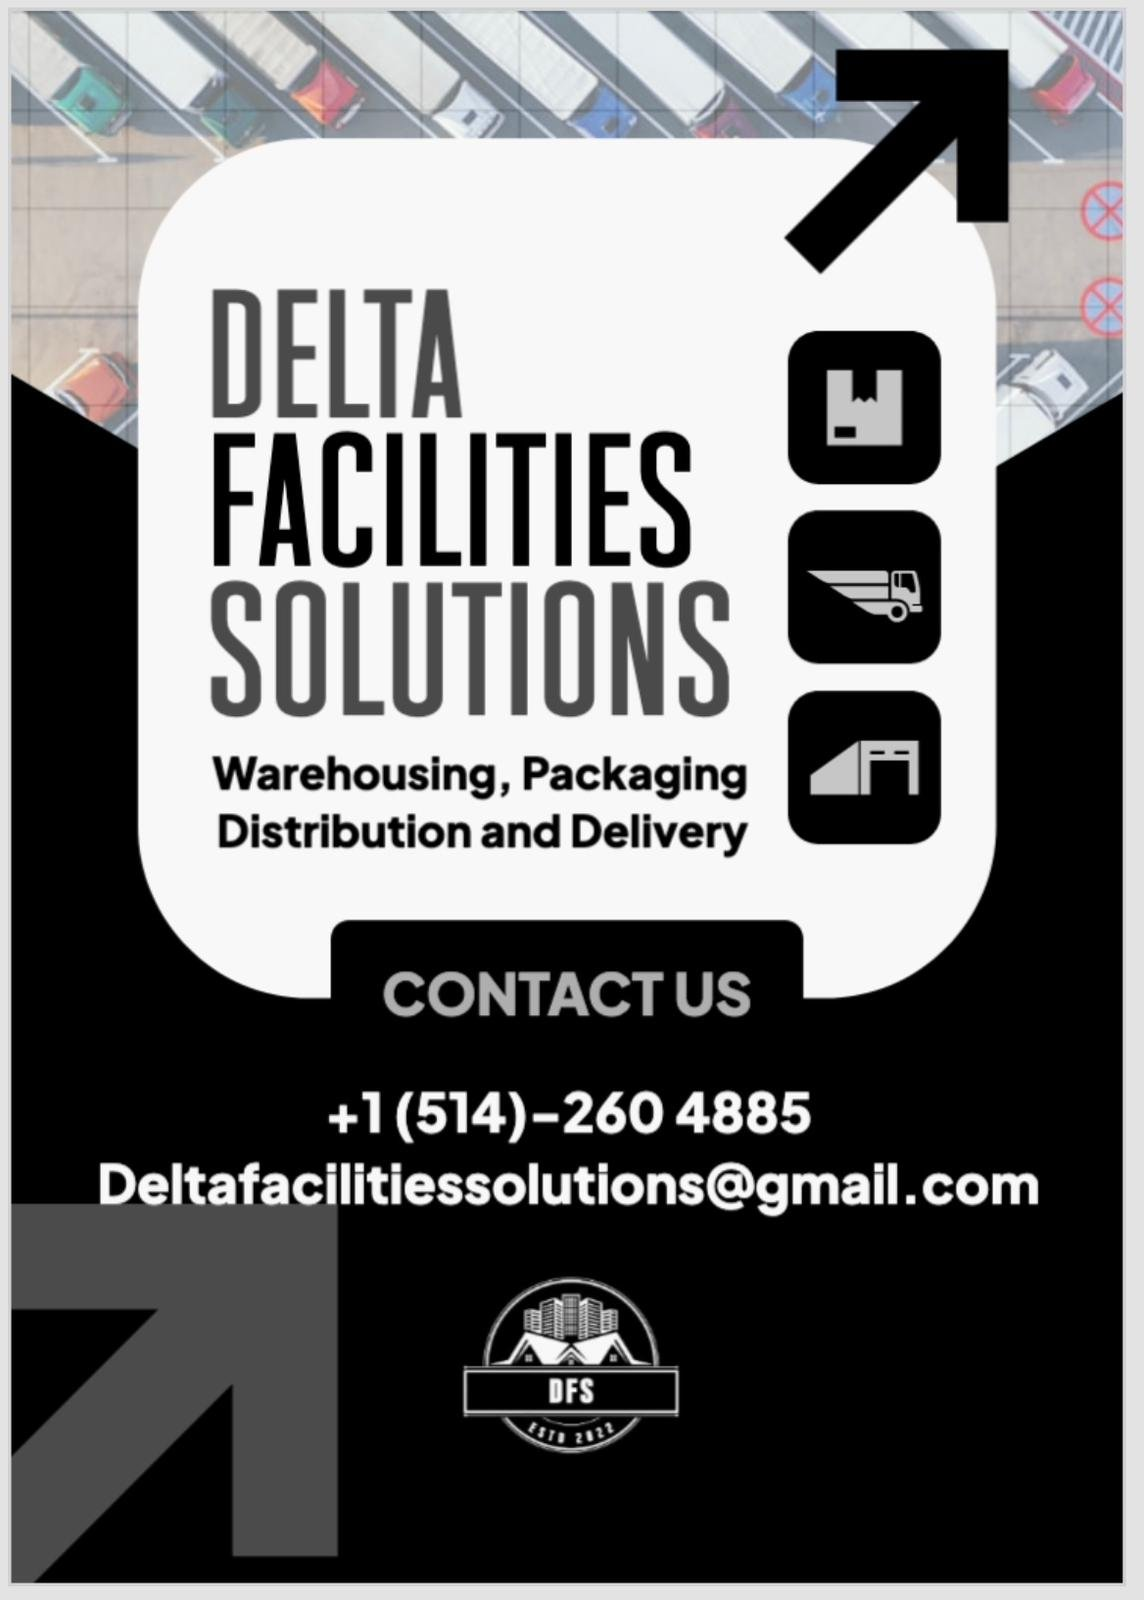
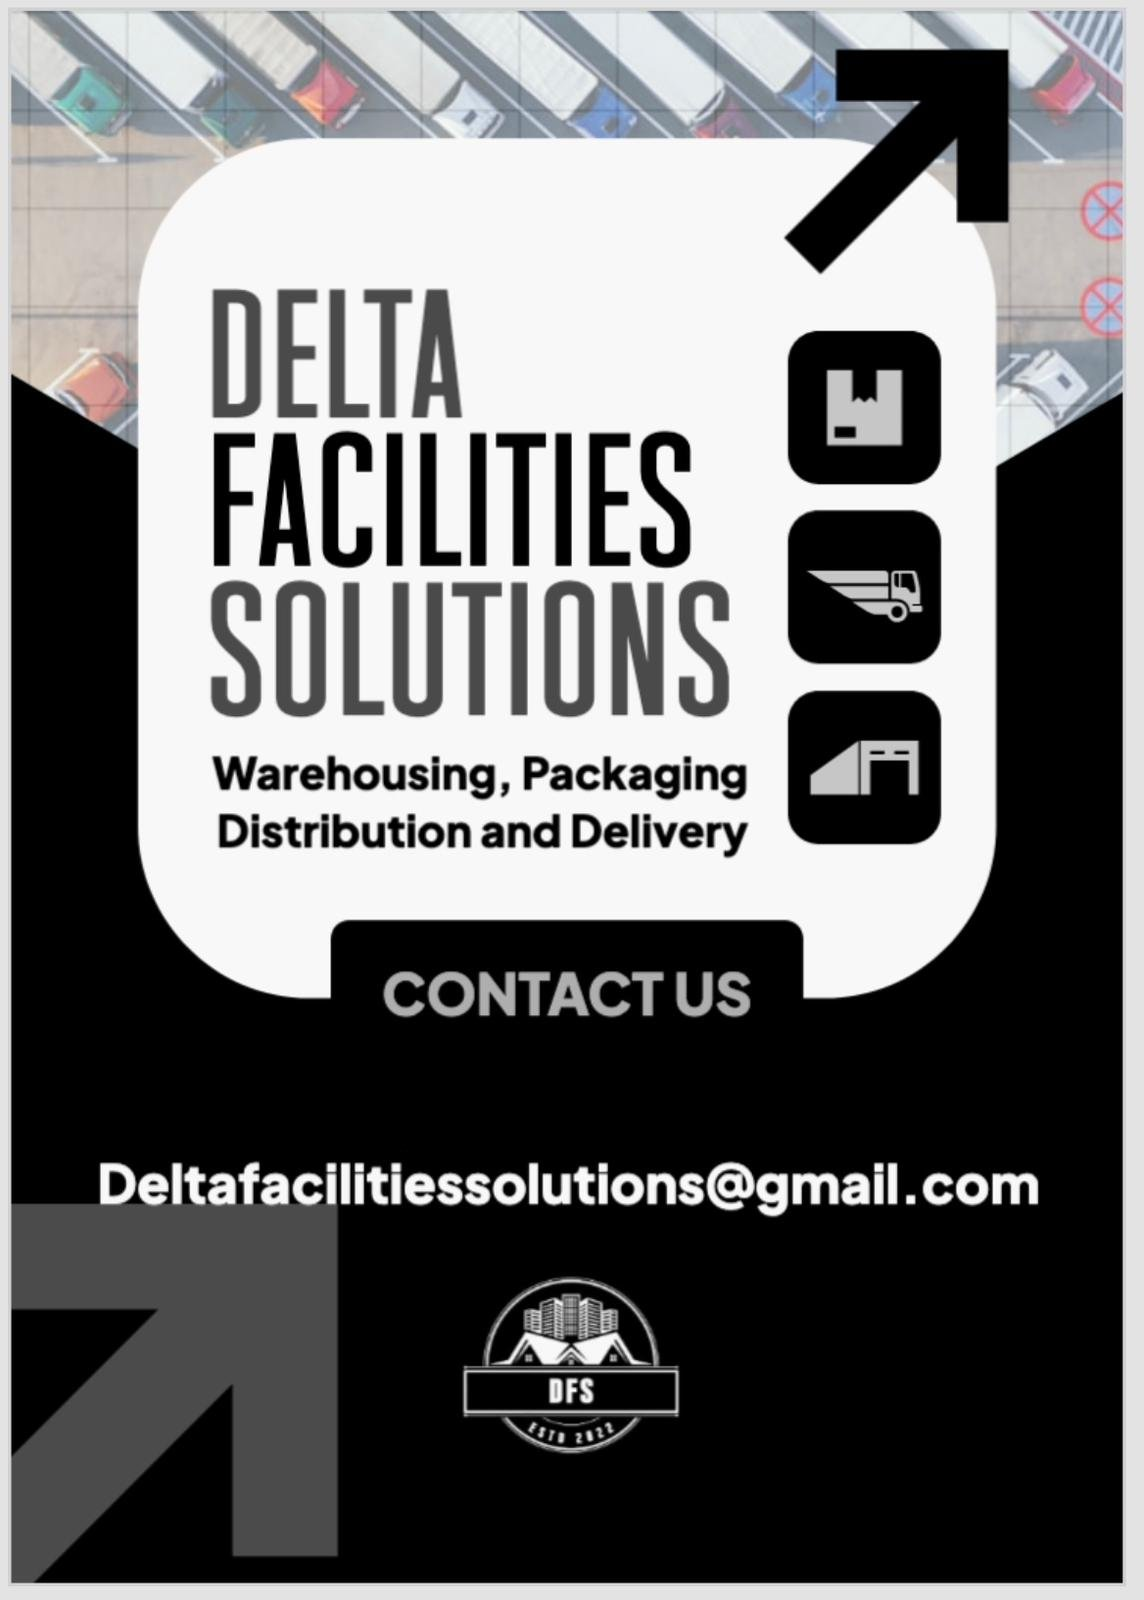
Remove phone number and YHU/airport mentions
Claude-Session: https://claude.ai/code/session_01Xpe8oU2XdLEHeh8RMwzrj1

Changed region(s): [[0.2753, 0.6562, 0.7037, 0.7188]]

diff --git a/src/i18n/site.ts b/src/i18n/site.ts
@@ -5,10 +5,10 @@ export const business = {
   name: 'Delta Facilities Solutions',
   short: 'DFS',
   email: 'deltafacilitiessolutions@gmail.com',
-  phone: '+1 (514) 260-4885',
-  phoneHref: '+15142604885',
+  phone: '',
+  phoneHref: '',
   founded: 2022,
-  area: 'Laval, Montréal and Saint-Hubert (YHU)',
+  area: 'Laval and Montréal',
 };
 
 // Contact forms are delivered free by FormSubmit (formsubmit.co) to the email above.
@@ -30,7 +30,7 @@ export const t = {
     meta: {
       title: 'Delta Facilities Solutions | Warehouse, packaging & distribution crews in Laval and Montreal',
       description:
-        'DFS runs warehousing, packaging and distribution work for businesses in Laval and Montreal, plus airside support at Montréal/Saint-Hubert Airport (YHU). Our crews are hired, trained and supervised by us.',
+        'DFS runs warehousing, packaging and distribution work for businesses in Laval and Montreal, plus local delivery. Our crews are hired, trained and supervised by us.',
     },
     nav: { services: 'Services', how: 'How it works', careers: 'Careers', about: 'About', contact: 'Contact', cta: 'Book a consultation', switch: 'FR', switchLabel: 'Français' },
     audience: { business: 'For businesses', seekers: 'For job seekers' },
@@ -39,12 +39,12 @@ export const t = {
       eyebrow: 'Laval & Montreal operations partner',
       title: 'Busy season? Hand the work to a DFS crew.',
       lead:
-        'We run warehousing, packaging and distribution work for businesses around Laval and Montreal, and airside at Montréal/Saint-Hubert Airport. We hire, train and supervise our own crews, so your team stays focused on its permanent roles.',
+        'We run warehousing, packaging and distribution work for businesses around Laval and Montreal. We hire, train and supervise our own crews, so your team stays focused on its permanent roles.',
       primary: 'Book a consultation',
       secondary: 'Find work with DFS',
-      seekersTitle: 'Steady warehouse and airside work, with training from day one.',
+      seekersTitle: 'Steady warehouse work, with training from day one.',
       seekersLead:
-        'DFS hires people for warehouse, packaging, distribution and airport jobs in Laval, Montreal and Saint-Hubert. We train you, supervise you on site and pay you on time.',
+        'DFS hires people for warehouse, packaging, distribution and delivery jobs in Laval and Montreal. We train you, supervise you on site and pay you on time.',
       seekersPrimary: 'Apply now',
       seekersSecondary: 'Questions? Contact us',
     },
@@ -62,7 +62,6 @@ export const t = {
         { icon: 'package', title: 'Packaging & co-packing', body: 'Kitting, labelling, repacking and finishing lines, with quality checks built into the shift.' },
         { icon: 'truck', title: 'Distribution & fulfillment', body: 'Order preparation, shipping and returns handling for retail, e-commerce and wholesale.' },
         { icon: 'delivery', title: 'Delivery', body: 'Local deliveries across Laval and Montreal, from your dock to your customer’s door.' },
-        { icon: 'plane', title: 'Airside support at YHU', body: 'Trained crews working airside at Montréal/Saint-Hubert Airport for cargo and ground handling tasks.' },
         { icon: 'calendar', title: 'Seasonal peak coverage', body: 'Holiday rushes, launches and inventory season covered without a recruiting campaign on your side.' },
       ],
     },
@@ -78,7 +77,7 @@ export const t = {
     seekers: {
       eyebrow: 'For job seekers',
       title: 'Looking for work in Laval or Montreal?',
-      body: 'We hire for warehouse, packaging, distribution and airside roles. No experience? We train you. Tell us about yourself and when you can work.',
+      body: 'We hire for warehouse, packaging, distribution and delivery roles. No experience? We train you. Tell us about yourself and when you can work.',
       points: ['Training before you start', 'Day, evening and weekend shifts', 'A DFS supervisor on site with you'],
       cta: 'Apply now',
     },
@@ -88,18 +87,18 @@ export const t = {
       body1:
         'Delta Facilities Solutions was founded by Jatin Chehal to give businesses in the Montreal area a simpler way to handle busy seasons. Instead of recruiting for every peak, HR and operations teams hand the work to us.',
       body2:
-        'We are based in the Montreal area and work across Laval, Montreal and the South Shore, including airside at Montréal/Saint-Hubert Airport (YHU).',
+        'We are based in the Montreal area and work across Laval, Montreal and the South Shore.',
     },
     faq: {
       title: 'Frequently asked questions',
       items: [
         { q: 'How is DFS different from a staffing agency?', a: 'A staffing agency sends you people to manage. DFS takes on a scope of work: we hire, train and supervise the crew ourselves, and you deal with one DFS contact instead of every worker.' },
-        { q: 'Which areas do you cover?', a: 'Laval, Montreal and the surrounding area, including the South Shore and Montréal/Saint-Hubert Airport (YHU).' },
+        { q: 'Which areas do you cover?', a: 'Laval, Montreal and the surrounding area, including the South Shore.' },
         { q: 'How quickly can a crew start?', a: 'It depends on the size of the crew and the training your site needs. Tell us your dates on a call and we will give you a realistic start date.' },
         { q: 'Do you work in French and English?', a: 'Yes. Our supervisors and crews work in French and English.' },
       ],
     },
-    ctaBand: { title: 'Planning for your next peak?', body: 'Call us or book a 15-minute consultation. We’ll tell you how a DFS crew could cover it.', cta: 'Book a consultation', call: 'Call' },
+    ctaBand: { title: 'Planning for your next peak?', body: 'Book a 15-minute consultation and we’ll tell you how a DFS crew could cover it.', cta: 'Book a consultation' },
     contact: {
       title: 'Book a consultation',
       lead: 'Tell us about the work you need covered. We reply within one business day.',
@@ -109,9 +108,9 @@ export const t = {
     },
     careers: {
       title: 'Work with DFS',
-      lead: 'Warehouse, packaging, distribution and airside jobs in Laval, Montreal and Saint-Hubert. Apply in two minutes.',
+      lead: 'Warehouse, packaging, distribution and delivery jobs in Laval and Montreal. Apply in two minutes.',
       name: 'Full name', email: 'Email', phone: 'Phone', city: 'City you live in',
-      role: 'Type of work', roles: ['Warehouse / material handling', 'Packaging', 'Distribution / shipping', 'Airside (YHU)', 'Any'],
+      role: 'Type of work', roles: ['Warehouse / material handling', 'Packaging', 'Distribution / shipping', 'Delivery', 'Any'],
       availability: 'When can you work?', avail: ['Days', 'Evenings', 'Nights', 'Weekends'],
       experience: 'Tell us about your experience (optional)', send: 'Send application',
     },
@@ -123,7 +122,7 @@ export const t = {
     meta: {
       title: 'Delta Facilities Solutions | Équipes d’entreposage, d’emballage et de distribution à Laval et Montréal',
       description:
-        'DFS prend en charge l’entreposage, l’emballage et la distribution pour les entreprises de Laval et Montréal, ainsi que du soutien côté piste à l’aéroport de Montréal/Saint-Hubert (YHU). Nos équipes sont recrutées, formées et supervisées par nous.',
+        'DFS prend en charge l’entreposage, l’emballage et la distribution pour les entreprises de Laval et Montréal, ainsi que la livraison locale. Nos équipes sont recrutées, formées et supervisées par nous.',
     },
     nav: { services: 'Services', how: 'Fonctionnement', careers: 'Carrières', about: 'À propos', contact: 'Contact', cta: 'Planifier un appel', switch: 'EN', switchLabel: 'English' },
     audience: { business: 'Pour les entreprises', seekers: 'Pour les chercheurs d’emploi' },
@@ -132,12 +131,12 @@ export const t = {
       eyebrow: 'Partenaire des opérations à Laval et Montréal',
       title: 'Période de pointe? Confiez le travail à une équipe DFS.',
       lead:
-        'Nous prenons en charge l’entreposage, l’emballage et la distribution pour les entreprises de Laval et Montréal, ainsi que du travail côté piste à l’aéroport de Montréal/Saint-Hubert. Nous recrutons, formons et supervisons nos propres équipes, pour que vos employés restent concentrés sur leurs postes permanents.',
+        'Nous prenons en charge l’entreposage, l’emballage et la distribution pour les entreprises de Laval et Montréal. Nous recrutons, formons et supervisons nos propres équipes, pour que vos employés restent concentrés sur leurs postes permanents.',
       primary: 'Planifier un appel',
       secondary: 'Travailler chez DFS',
-      seekersTitle: 'Du travail stable en entrepôt et à l’aéroport, avec formation dès le premier jour.',
+      seekersTitle: 'Du travail stable en entrepôt, avec formation dès le premier jour.',
       seekersLead:
-        'DFS embauche pour des postes en entrepôt, emballage, distribution et à l’aéroport à Laval, Montréal et Saint-Hubert. Nous vous formons, vous encadrons sur place et vous payons à temps.',
+        'DFS embauche pour des postes en entrepôt, emballage, distribution et livraison à Laval et Montréal. Nous vous formons, vous encadrons sur place et vous payons à temps.',
       seekersPrimary: 'Postuler',
       seekersSecondary: 'Des questions? Écrivez-nous',
     },
@@ -155,7 +154,6 @@ export const t = {
         { icon: 'package', title: 'Emballage et co-emballage', body: 'Assemblage de trousses, étiquetage, remballage et lignes de finition, avec contrôle de la qualité intégré au quart.' },
         { icon: 'truck', title: 'Distribution et exécution des commandes', body: 'Préparation des commandes, expédition et gestion des retours pour le commerce de détail, en ligne et de gros.' },
         { icon: 'delivery', title: 'Livraison', body: 'Livraisons locales à Laval et Montréal, de votre quai jusqu’à la porte de votre client.' },
-        { icon: 'plane', title: 'Soutien côté piste à YHU', body: 'Des équipes formées qui travaillent côté piste à l’aéroport de Montréal/Saint-Hubert pour le fret et l’assistance au sol.' },
         { icon: 'calendar', title: 'Couverture des pointes saisonnières', body: 'Fêtes, lancements et inventaires couverts sans campagne de recrutement de votre côté.' },
       ],
     },
@@ -171,7 +169,7 @@ export const t = {
     seekers: {
       eyebrow: 'Pour les chercheurs d’emploi',
       title: 'Vous cherchez du travail à Laval ou Montréal?',
-      body: 'Nous embauchons pour des postes en entrepôt, emballage, distribution et côté piste. Pas d’expérience? Nous vous formons. Parlez-nous de vous et de vos disponibilités.',
+      body: 'Nous embauchons pour des postes en entrepôt, emballage, distribution et livraison. Pas d’expérience? Nous vous formons. Parlez-nous de vous et de vos disponibilités.',
       points: ['Formation avant de commencer', 'Quarts de jour, de soir et de fin de semaine', 'Un superviseur DFS sur place avec vous'],
       cta: 'Postuler',
     },
@@ -181,18 +179,18 @@ export const t = {
       body1:
         'Delta Facilities Solutions a été fondée par Jatin Chehal pour offrir aux entreprises de la région de Montréal une façon plus simple de gérer les périodes de pointe. Au lieu de recruter à chaque pointe, les équipes RH et des opérations nous confient le travail.',
       body2:
-        'Nous sommes établis dans la région de Montréal et travaillons à Laval, à Montréal et sur la Rive-Sud, y compris côté piste à l’aéroport de Montréal/Saint-Hubert (YHU).',
+        'Nous sommes établis dans la région de Montréal et travaillons à Laval, à Montréal et sur la Rive-Sud.',
     },
     faq: {
       title: 'Questions fréquentes',
       items: [
         { q: 'En quoi DFS diffère-t-elle d’une agence de placement?', a: 'Une agence vous envoie des personnes à gérer. DFS prend en charge un mandat : nous recrutons, formons et supervisons l’équipe nous-mêmes, et vous traitez avec un seul contact DFS.' },
-        { q: 'Quels secteurs desservez-vous?', a: 'Laval, Montréal et les environs, y compris la Rive-Sud et l’aéroport de Montréal/Saint-Hubert (YHU).' },
+        { q: 'Quels secteurs desservez-vous?', a: 'Laval, Montréal et les environs, y compris la Rive-Sud.' },
         { q: 'En combien de temps une équipe peut-elle commencer?', a: 'Cela dépend de la taille de l’équipe et de la formation requise. Donnez-nous vos dates lors d’un appel et nous vous proposerons une date réaliste.' },
         { q: 'Travaillez-vous en français et en anglais?', a: 'Oui. Nos superviseurs et nos équipes travaillent en français et en anglais.' },
       ],
     },
-    ctaBand: { title: 'Vous planifiez votre prochaine pointe?', body: 'Appelez-nous ou planifiez un appel de 15 minutes. Nous vous dirons comment une équipe DFS peut la couvrir.', cta: 'Planifier un appel', call: 'Appeler' },
+    ctaBand: { title: 'Vous planifiez votre prochaine pointe?', body: 'Planifiez un appel de 15 minutes et nous vous dirons comment une équipe DFS peut la couvrir.', cta: 'Planifier un appel' },
     contact: {
       title: 'Planifier un appel',
       lead: 'Parlez-nous du travail à couvrir. Nous répondons en un jour ouvrable.',
@@ -202,9 +200,9 @@ export const t = {
     },
     careers: {
       title: 'Travailler chez DFS',
-      lead: 'Des emplois en entrepôt, emballage, distribution et côté piste à Laval, Montréal et Saint-Hubert. Postulez en deux minutes.',
+      lead: 'Des emplois en entrepôt, emballage, distribution et livraison à Laval et Montréal. Postulez en deux minutes.',
       name: 'Nom complet', email: 'Courriel', phone: 'Téléphone', city: 'Ville de résidence',
-      role: 'Type de travail', roles: ['Entrepôt / manutention', 'Emballage', 'Distribution / expédition', 'Côté piste (YHU)', 'Peu importe'],
+      role: 'Type de travail', roles: ['Entrepôt / manutention', 'Emballage', 'Distribution / expédition', 'Livraison', 'Peu importe'],
       availability: 'Quand pouvez-vous travailler?', avail: ['Jour', 'Soir', 'Nuit', 'Fin de semaine'],
       experience: 'Parlez-nous de votre expérience (facultatif)', send: 'Envoyer ma candidature',
     },

diff --git a/src/islands/Hero.tsx b/src/islands/Hero.tsx
@@ -7,12 +7,12 @@ type Copy = {
   bizTitle: string; bizLead: string; bizPrimary: string; bizSecondary: string;
   seekTitle: string; seekLead: string; seekPrimary: string; seekSecondary: string;
 };
-type Props = { copy: Copy; contactHref: string; careersHref: string; phone: string; phoneHref: string; yardImg: string; logoImg: string };
+type Props = { copy: Copy; contactHref: string; careersHref: string; email: string; yardImg: string; logoImg: string };
 
 const WORDS = ['Delta', 'Facilities', 'Solutions'];
 const ease = [0.22, 1, 0.36, 1] as const;
 
-export default function Hero({ copy, contactHref, careersHref, phone, phoneHref, yardImg, logoImg }: Props) {
+export default function Hero({ copy, contactHref, careersHref, email, yardImg, logoImg }: Props) {
   const reduce = useReducedMotion();
   const [tab, setTab] = useState<'biz' | 'seek'>('biz');
   const d = (s: number) => (reduce ? 0 : s);
@@ -108,7 +108,7 @@ export default function Hero({ copy, contactHref, careersHref, phone, phoneHref,
 
           <div className="mt-7 flex items-center gap-4 border-t-2 border-ink/10 pt-5">
             <img src={logoImg} alt="" className="h-12 w-auto" width="60" height="49" />
-            <a href={`tel:${phoneHref}`} className="font-display text-2xl font-extrabold hover:underline">{phone}</a>
+            <a href={`mailto:${email}`} className="break-all text-sm font-semibold hover:underline">{email}</a>
           </div>
         </motion.div>
       </div>
